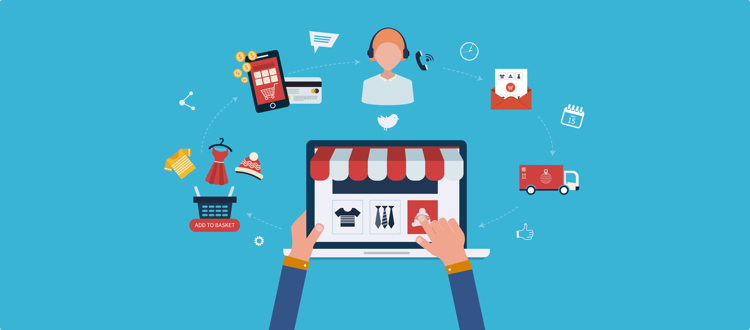
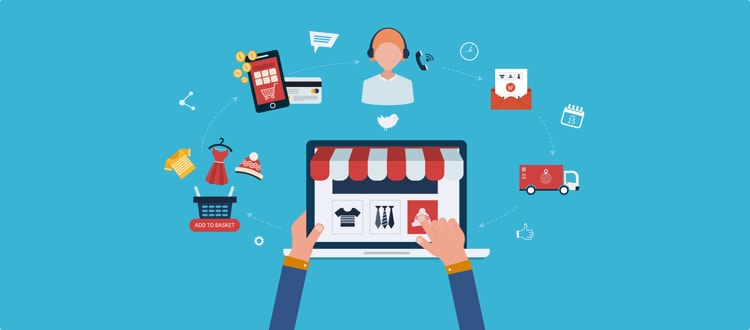
Background Test

diff --git a/css/style.css b/css/style.css
@@ -2,13 +2,13 @@
 body {
     width: 100%;
     height: 100%;
-    background-image: url('/images/shoping.png');
+    background-image: url(https://i.imgur.com/c6l1cnR.png);
     background-position: center center;background-repeat: no-repeat;background-attachment: fixed;background-size: cover;
     font-family: "acumin-pro-condensed", sans-serif;
     margin-top: 9em;
 }
 .container{
-    background-color: rgba(204, 212, 243, 0.87);
+    background-color: rgba(204, 212, 243, 0.77);
 }
 .green-color{color: #86ffc2;text-shadow: 2px 2px 2px #000000;}
 
